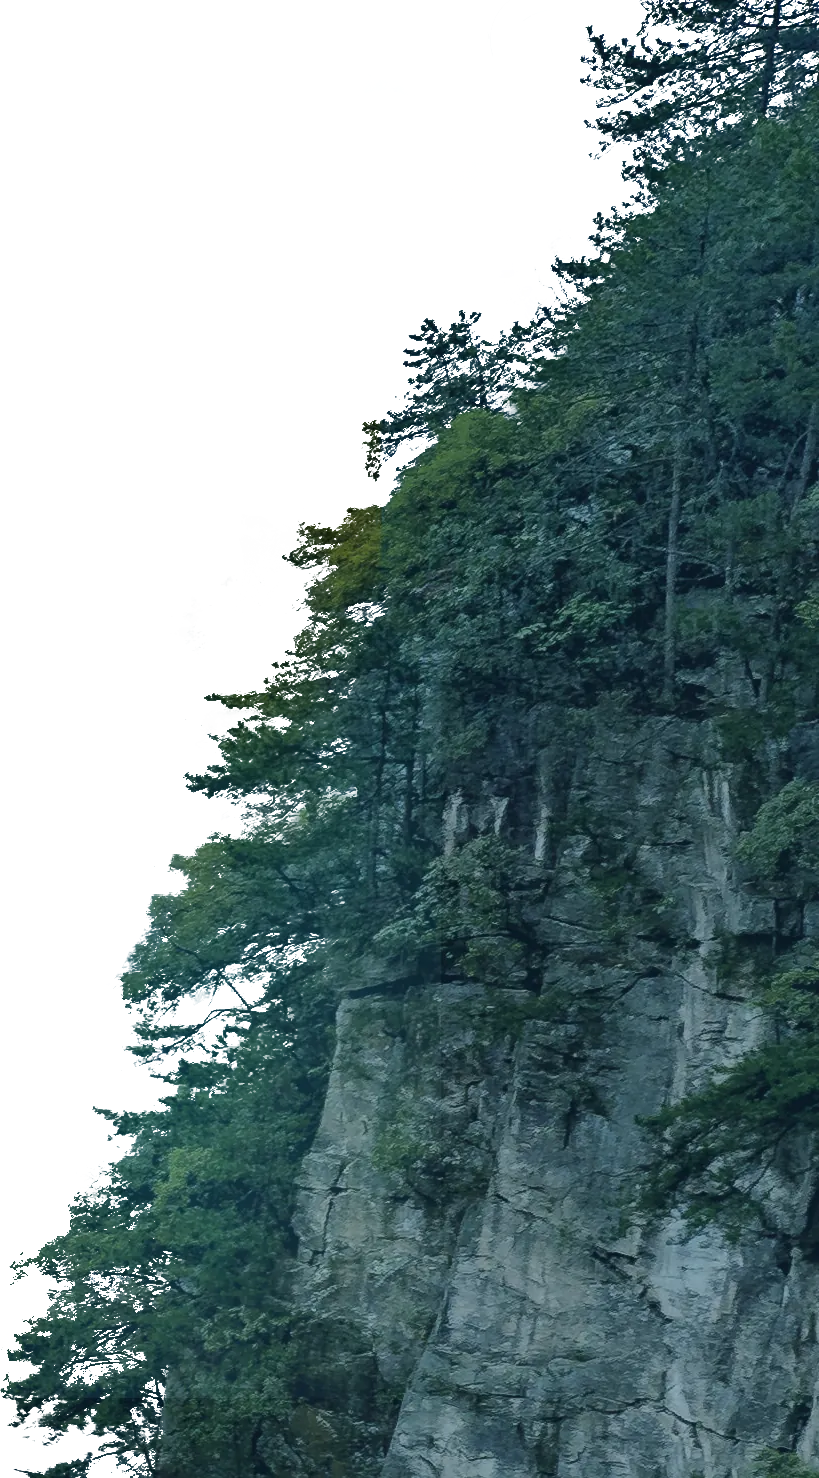
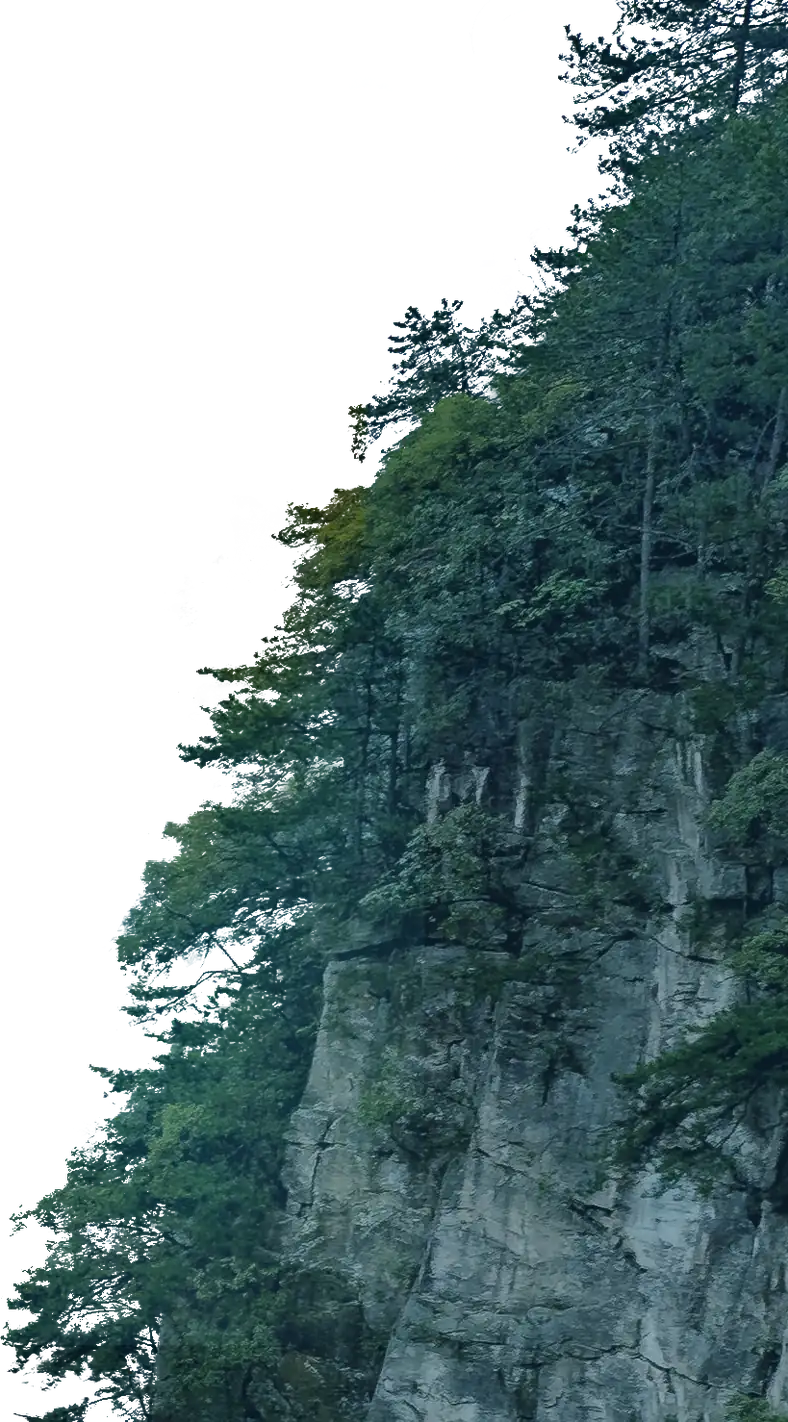
Load the hero scene all at once and fix /quest deep links on Vercel
- Re-encode the 17 parallax layers at their on-screen size (5.1 MB -> 2.7 MB)
- Preload and decode every layer up front; the loading screen waits for them
  (6 s cap) with a progress bar, then the whole scene fades in together
- Add vercel.json: SPA rewrite so /quest works on refresh, long-lived caching
  for hashed assets and a week for images/models

Changed region(s): [[0.1523, 0.9902, 0.1827, 1.0]]

diff --git a/src/components/ui/parallax-hero.tsx b/src/components/ui/parallax-hero.tsx
@@ -1,4 +1,4 @@
-import { useEffect, useRef, type ReactNode } from "react";
+import { useEffect, useRef, useState, type ReactNode } from "react";
 import { cn } from "@/lib/utils";
 
 export interface ParallaxLayer {
@@ -53,6 +53,48 @@ export const defaultLayers: ParallaxLayer[] = [
   { src: L("fog-1"), alt: "", speedX: 0.12, speedY: 0.01, speedZ: 0, rotation: 0, zIndex: 21, initialTop: "calc(100% - 355px)", initialLeft: "calc(50% + 100px)", width: "1900px", className: "opacity-50" },
 ];
 
+/* ------------------------------------------------------------------ preload
+ * Fetch + decode every layer up front so the scene can appear in one go instead
+ * of trees popping in one by one as each file arrives. Shared by the loading
+ * screen (which waits on it) and the hero (which fades in when it resolves). */
+let heroReady: Promise<void> | null = null;
+let heroLoaded = 0;
+const keepAlive: HTMLImageElement[] = [];
+const progressListeners = new Set<(fraction: number) => void>();
+
+export function preloadHeroLayers(layers: ParallaxLayer[] = defaultLayers): Promise<void> {
+  if (heroReady) return heroReady;
+  heroReady = Promise.all(
+    layers.map(
+      (layer) =>
+        new Promise<void>((resolve) => {
+          const img = new Image();
+          img.decoding = "async";
+          img.src = layer.src;
+          keepAlive.push(img);
+          const done = () => {
+            heroLoaded++;
+            progressListeners.forEach((fn) => fn(heroLoaded / layers.length));
+            resolve();
+          };
+          img.decode().then(done, done); // a failed layer must never block the page
+        }),
+    ),
+  ).then(() => undefined);
+  return heroReady;
+}
+
+export function onHeroProgress(fn: (fraction: number) => void) {
+  progressListeners.add(fn);
+  fn(heroLoaded / defaultLayers.length);
+  return () => {
+    progressListeners.delete(fn);
+  };
+}
+
+// Start downloading as soon as this module loads (before React even renders).
+if (typeof window !== "undefined") preloadHeroLayers();
+
 const TEXT_MOTION = { speedX: 0.07, speedY: 0.05, speedZ: 0.08, rotation: 0.04 };
 
 function transformFor(
@@ -83,6 +125,17 @@ export function ParallaxHero({
   const textRef = useRef<HTMLDivElement>(null);
 
   const sectionRef = useRef<HTMLElement>(null);
+  // Reveal every layer together once all are decoded (safety cap: never wait > 8s).
+  const [ready, setReady] = useState(false);
+  useEffect(() => {
+    let alive = true;
+    preloadHeroLayers(layers).then(() => alive && setReady(true));
+    const cap = window.setTimeout(() => alive && setReady(true), 8000);
+    return () => {
+      alive = false;
+      window.clearTimeout(cap);
+    };
+  }, [layers]);
 
   useEffect(() => {
     // Mouse-driven only; touch devices get the static composition.
@@ -182,7 +235,8 @@ export function ParallaxHero({
           draggable={false}
           decoding="async"
           className={cn(
-            "pointer-events-none absolute max-w-none select-none will-change-transform",
+            "pointer-events-none absolute max-w-none select-none transition-opacity duration-700 ease-out will-change-transform",
+            !ready && "!opacity-0",
             layer.className,
           )}
           style={{
@@ -197,7 +251,10 @@ export function ParallaxHero({
 
       <div
         ref={textRef}
-        className="absolute text-center text-white will-change-transform"
+        className={cn(
+          "absolute text-center text-white transition-opacity duration-700 ease-out will-change-transform",
+          !ready && "opacity-0",
+        )}
         style={{
           zIndex: TITLE_Z,
           top: "calc(50% - 200px)",

diff --git a/src/components/Preloader.tsx b/src/components/Preloader.tsx
@@ -1,10 +1,28 @@
 "use client";
 
+import { useEffect, useRef, useState } from "react";
 import { motion } from "motion/react";
+import { onHeroProgress, preloadHeroLayers } from "./ui/parallax-hero";
 import { TextScramble } from "./text-scramble";
 import { BGPattern } from "./bg-pattern";
 
+/** Longest we'll hold the loading screen waiting for the hero images. */
+const MAX_WAIT_MS = 6000;
+
 export function Preloader({ onComplete }: { onComplete: () => void }) {
+  const [progress, setProgress] = useState(0);
+  const finished = useRef(false);
+  useEffect(() => onHeroProgress(setProgress), []);
+
+  // Leave only when the title has finished scrambling AND the hero scene is ready
+  // (or MAX_WAIT_MS passed), so the mountains appear all at once, not tree by tree.
+  const finish = () => {
+    if (finished.current) return;
+    finished.current = true;
+    const timeout = new Promise<void>((r) => setTimeout(r, MAX_WAIT_MS));
+    Promise.race([preloadHeroLayers(), timeout]).then(() => setTimeout(onComplete, 200));
+  };
+
   return (
     <motion.div
       className="fixed inset-0 z-[100] flex flex-col items-center justify-center bg-[#08080A] overflow-hidden"
@@ -42,9 +60,7 @@ export function Preloader({ onComplete }: { onComplete: () => void }) {
           className="font-mono uppercase text-2xl md:text-4xl lg:text-5xl text-[#F3F4F6] tracking-[0.2em] text-center px-6"
           duration={1.4}
           speed={0.04}
-          onScrambleComplete={() => {
-            setTimeout(onComplete, 200);
-          }}
+          onScrambleComplete={finish}
         >
           GeoQuest
         </TextScramble>
@@ -59,6 +75,14 @@ export function Preloader({ onComplete }: { onComplete: () => void }) {
         >
           CAMPUS GEOQUEST · TEN STATIONS · ONE TRAIL
         </motion.div>
+      </div>
+
+      {/* Thin progress line while the hero scene downloads */}
+      <div className="absolute bottom-8 left-1/2 h-px w-40 -translate-x-1/2 overflow-hidden bg-white/10">
+        <div
+          className="h-full bg-[#B5D98A] transition-[width] duration-300 ease-out"
+          style={{ width: `${Math.round(progress * 100)}%` }}
+        />
       </div>
     </motion.div>
   );
